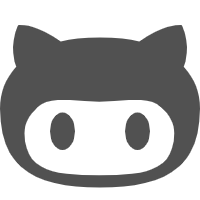
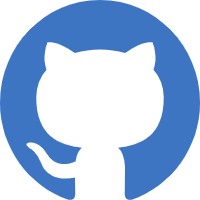
1、更细数据；

diff --git a/src/app.vue b/src/app.vue
@@ -1,13 +1,25 @@
 <template>
   <div id="app">
-    <!-- <div class="header">
-      <h1>合肥新冠状病毒感染确诊病例</h1>
-      <p>数据来源于 <a target="_blank" href="http://wjw.hefei.gov.cn/ztzl/xxgzbdgrdfyyqfk/xxfb/17723019.html">合肥卫健委</a> ，仅供参考，不喜勿喷</p>
-    </div> -->
+    <div class="fixed-header">
+      <template v-if="DATA_STATISTICS && DATA_STATISTICS.update && DATA_STATISTICS.count">
+        <div class="item">
+          <span class="last"><label>较昨日</label><b>+{{DATA_STATISTICS.count.newCommunity}}</b></span>
+          <cite class="current"><label>确诊小区</label><b>{{DATA_STATISTICS.count.community}}</b></cite>
+        </div>
+        <div class="item">
+          <span class="last"><label>较昨日</label><b>+{{DATA_STATISTICS.count.newPeople}}</b></span>
+          <cite class="current"><label>确诊人数</label><b>{{DATA_STATISTICS.count.people}}</b></cite>
+        </div>
+        <a class="item item-more" target="_blank" :href="DATA_STATISTICS.update.url" @click="showDetail">
+          <cite>查看详细</cite>
+          <span>{{DATA_STATISTICS.update.date}}</span>
+        </a>
+      </template>
+    </div>
     <div class="fixed-link">
       <a @click="switchShowMode('marker')">
         <img src="./assets/icon-marker.png">
-        <span>小区明细</span>
+        <span>小区分布</span>
       </a>
       <a @click="switchShowMode('heat')">
         <img src="./assets/icon-heat.png">
@@ -17,18 +29,21 @@
         <img src="./assets/icon-location.png">
         <span>我的位置</span>
       </a>
-      <a href="https://github.com/twoer/2019-nCoV-HF">
+      <a @click="goGithub" target="_blank" href="https://github.com/twoer/2019-nCoV-HF">
         <img src="./assets/icon-github.png">
         <span>源码</span>
       </a>
     </div>
-    <div class="fixed-info">数据来源于 <a target="_blank" href="http://wjw.hefei.gov.cn/ztzl/xxgzbdgrdfyyqfk/xxfb/17723019.html">合肥卫健委</a> ，更新时间：2020/02/04 20:00</div>
+    <!-- <div v-if="DATA_STATISTICS && DATA_STATISTICS.update" class="fixed-info">
+        数据来源于 <a target="_blank" :href="DATA_STATISTICS.update.url">{{DATA_STATISTICS.update.author}}</a>
+        &nbsp;&nbsp;更新时间：{{DATA_STATISTICS.update.date}}
+    </div> -->
     <div id="container"></div>
   </div>
 </template>
 
 <script>
-import dataCase from './data.js'
+import { DATA_CASE, DATA_STATISTICS } from './data.js'
 const BMap = window['BMap']
 const BMapLib = window['BMapLib']
 const isSupportCanvas = () => {
@@ -43,7 +58,8 @@ export default {
       showMode: 'marker',
       currentPoint: null,
       markerList: [],
-      heatmapOverlay: null
+      heatmapOverlay: null,
+      DATA_STATISTICS: DATA_STATISTICS
     }
   },
   mounted () {
@@ -62,7 +78,7 @@ export default {
       this.map.enableScrollWheelZoom()
     },
     initMarker () {
-      dataCase.forEach((area) => {
+      DATA_CASE.forEach((area) => {
         area.list.forEach((item) => {
           let temp = item.split(',')
           let point = new BMap.Point(temp[0], temp[1])
@@ -89,7 +105,7 @@ export default {
       }
       let points = [
       ]
-      dataCase.forEach((area) => {
+      DATA_CASE.forEach((area) => {
         area.list.forEach((item) => {
           let temp = item.split(',')
           points.push({
@@ -122,6 +138,7 @@ export default {
           marker.show()
         })
       }
+      window['_hmt'] && window['_hmt'].push(['_trackEvent', '模式切换', mode])
     },
     getCurrentLocation () {
       let geolocation = new BMap.Geolocation()
@@ -138,9 +155,15 @@ export default {
         })
         this.currentPoint = new BMap.Marker(r.point, { icon })
         this.map.addOverlay(this.currentPoint)
-        // this.map.panTo(r.point)
         this.map.centerAndZoom(r.point, 15)
       }, { enableHighAccuracy: true })
+      window['_hmt'] && window['_hmt'].push(['_trackEvent', '我的位置', ''])
+    },
+    goGithub () {
+      window['_hmt'] && window['_hmt'].push(['_trackEvent', '查看源码', ''])
+    },
+    showDetail () {
+      window['_hmt'] && window['_hmt'].push(['_trackEvent', '查看详细', ''])
     }
   }
 }
@@ -155,31 +178,101 @@ html,body,#app,#container
   margin: 0px;
   height: 100%;
 }
-.header
+.fixed-header
 {
-  flex: 0 0 50px;
+  position: fixed;
+  top: 8px;
+  left: 8px;
+  right: 8px;
+  z-index: 999;
+  height: 50px;
+  background-color: #fff;
   display: flex;
-  flex-direction: column;
+  flex-direction: row;
   justify-content: center;
   align-items: center;
-  h1,p
+  box-shadow: 1px 1px 10px rgba(0, 0,0,.1), 1px 1px 2px rgba(0, 0,0,.1);
+  .item
   {
-    margin: 0px;
-    line-height: 1.5em;
-    text-align: center;
-  }
-  h1
-  {
-    font-size: 16px;
-    color: #333;
-  }
-  p
-  {
-    font-size: 12px;
-    color: #777;
-    a
+    flex: 1;
+    display: flex;
+    flex-direction: column;
+    justify-content: center;
+    height: 100%;
+    align-items: center;
+    position: relative;
+    .last
     {
-      color: #576b95;
+      display: flex;
+      flex-direction: row;
+      justify-content: center;
+      align-items: center;
+      height: 16px;
+      font-size: 10px;
+      label
+      {
+        margin-right: 4px;
+        color: #ddd;
+      }
+      b
+      {
+        color: rgb(247, 76, 49);
+      }
+    }
+    .current
+    {
+      display: flex;
+      flex-direction: row;
+      justify-content: center;
+      align-items: center;
+      height: 20px;
+      font-weight: normal;
+      font-style: normal;
+      font-size: 12px;
+      label
+      {
+        margin-right: 4px;
+        font-size: 10px;
+        color: #888;
+      }
+      b
+      {
+        line-height: 18px;
+        color: rgb(247, 76, 49);
+        font-size: 18px;
+      }
+    }
+  }
+  .item:first-child + .item
+  {
+    &::before
+    {
+      content: '';
+      position: absolute;
+      top: 15%;
+      left: 0px;
+      width: 1px;
+      height: 70%;
+      background-color: rgba(#ddd, 0.7);
+    }
+  }
+  .item-more
+  {
+    flex: 0 0 35%;
+    margin: 0px;
+    padding: 0px;
+    background-color: #dc6450;
+    text-decoration: none;
+    span
+    {
+      font-size: 10px;
+      color: #eeb4aa;
+    }
+    cite
+    {
+      font-size: 14px;
+      font-style: normal;
+      color: #fff;
     }
   }
 }
@@ -196,6 +289,7 @@ html,body,#app,#container
   justify-content: flex-end;
   background-color: #fff;
   border-radius: 4px;
+  box-shadow: 1px 1px 10px rgba(0, 0,0,.1), 1px 1px 2px rgba(0, 0,0,.1);
   a
   {
     display: block;
@@ -206,17 +300,21 @@ html,body,#app,#container
     justify-content: center;
     align-items: center;
     text-decoration: none;
+    transition: all 0.3s;
+    &:active
+    {
+      background-color: rgba(#999, 0.2);
+    }
     img
     {
       max-width: 28px;
       max-height: 28px;
-      border-radius: 50%;
     }
     span
     {
-      margin-top: 5px;
+      margin-top: 2px;
       font-size: 11px;
-      color: #555;
+      color: #666;
       letter-spacing: -0.5px;
     }
     // &.icon-location

diff --git a/src/data.js b/src/data.js
@@ -1,4 +1,4 @@
-const data = [
+const DATA_CASE = [
   {
     key: '肥东县',
     list: ['117.427506,31.895833,陈大郢社区紫玉华府',
@@ -13,15 +13,19 @@ const data = [
       '117.852802,32.054828,马湖乡沙河村',
       '117.684292,32.145053,八斗镇王城社区',
       '117.574411,31.905293,石塘镇龙城社区',
-      '117.284078,31.862031,石塘镇供销社宿舍',
-      '117.487648,31.95986,牌坊回族满族乡民新村']
+      '117.639939,31.93797,石塘镇供销社宿舍',
+      '117.487648,31.95986,牌坊回族满族乡民新村',
+      '117.455395,31.896642,店埠镇凯旋公馆',
+      '117.60028,31.896862,石塘镇新展社区'
+    ]
   },
   {
     key: '肥西县',
     list: [
       '117.201326,31.69008,上派镇韩圩村',
       '117.170393,31.732746,上派镇华邦万派城',
-      '117.179595,31.789791,桃花镇东冠繁华逸城'
+      '117.179595,31.789791,桃花镇东冠繁华逸城',
+      '117.171392,31.786059,桃花镇信地华地城'
     ]
   },
   {
@@ -64,7 +68,8 @@ const data = [
       '117.33319,31.873209,长江东路五里井17栋',
       '117.330442,31.877155,铜陵路工业锅炉厂宿舍',
       '117.374088,31.880635,斯瑞新景苑',
-      '117.330529,31.875132,恒丰嘉园'
+      '117.330529,31.875132,恒丰嘉园',
+      '117.394254,31.87404,新创益民家园'
     ]
   },
   {
@@ -72,7 +77,8 @@ const data = [
     list: [
       '117.291757,31.909907,探矿厂宿舍',
       '117.278023,31.882968,柏景湾青云轩',
-      '117.262834,31.880638,古城新村'
+      '117.262834,31.880638,古城新村',
+      '117.293322,31.900958,杏林花园南区'
     ]
   },
   {
@@ -85,7 +91,8 @@ const data = [
       '117.250595,31.876861,中铁青秀城',
       '117.266745,31.874394,和谐家园（长丰南路）',
       '117.248554,31.863732,颐和阳光100小区',
-      '117.248281,31.871345,龙居山庄天龙居'
+      '117.248281,31.871345,龙居山庄天龙居',
+      '117.22733,31.805533,颐园世家'
     ]
   },
   {
@@ -94,7 +101,9 @@ const data = [
       '117.282056,31.830598,曙宏南苑',
       '117.28879,31.738861,滨湖明珠西区',
       '117.284451,31.713328,豪门金地小区',
-      '117.312875,31.855629,金湾嘉园'
+      '117.312875,31.855629,金湾嘉园',
+      '117.292618,31.840239,宝利丰广场',
+      '117.296376,31.75382,琼林苑小区'
     ]
   },
   {
@@ -109,9 +118,24 @@ const data = [
       '117.379427,31.910114,合郢花园',
       '117.327947,31.902247,家天下3期',
       '117.312057,31.904238,昊天园小区',
-      '117.349143,31.905215,新海尚宸家园'
+      '117.349143,31.905215,新海尚宸家园',
+      '117.362138,31.892728,园上园公寓楼'
     ]
   }
 ]
 
-export default data
+const DATA_STATISTICS = {
+  update: {
+    date: '2020/02/06 10:00',
+    url: 'http://wjw.hefei.gov.cn/ztzl/xxgzbdgrdfyyqfk/xxfb/17723503.html',
+    author: '合肥卫健委'
+  },
+  count: {
+    people: 104,
+    newPeople: 11,
+    community: 68,
+    newCommunity: 8
+  }
+}
+
+export { DATA_CASE, DATA_STATISTICS }
